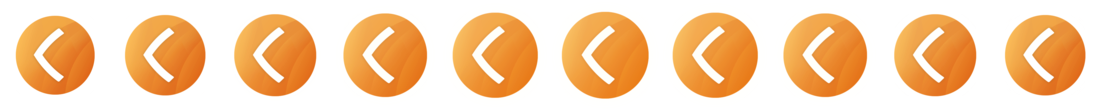
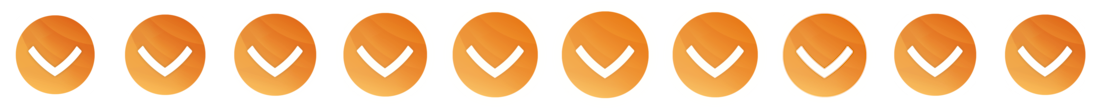
clubhouse: Change button orientation
Now the Clubhouse button (including the assets) have been rotated
to track the bottom side of the Clubhouse window.

https://phabricator.endlessm.com/T27162

diff --git a/js/ui/components/clubhouse.js b/js/ui/components/clubhouse.js
@@ -135,9 +135,9 @@ var ClubhouseWindowTracker = GObject.registerClass({
 
         this.emit('window-changed');
 
-        // Track Clubhouse's window actor to make the closeButton always show on top of
+        // Track Clubhouse's window actor to make the closeButton always show on bottom of
         // the Clubhouse's window edge
-        this._notifyHandler = actor.connect('notify::x', () => {
+        this._notifyHandler = actor.connect('notify::y', () => {
             this.emit('window-changed');
         });
 
@@ -161,10 +161,16 @@ var ClubhouseWindowTracker = GObject.registerClass({
         this._windowActor = null;
     }
 
-    getWindowX() {
+    getWindowY() {
         if (!Main.sessionMode.hasOverview || Main.overview.visible || this._windowActor == null)
             return -1;
-        return this._windowActor.x;
+        return this._windowActor.y;
+    }
+
+    getWindowHeight() {
+        if (!Main.sessionMode.hasOverview || Main.overview.visible || this._windowActor == null)
+            return -1;
+        return this._windowActor.height;
     }
 });
 
@@ -732,9 +738,9 @@ var ClubhouseButtonManager = GObject.registerClass({
         this._openButton.connect('clicked', () => { this.emit('open-clubhouse'); })
 
         let scaleFactor = St.ThemeContext.get_for_stage(global.stage).scale_factor;
-        this._openButton.set_clip(0, 0,
-                                  scaleFactor * CLUBHOUSE_BUTTON_SIZE / 2,
-                                  scaleFactor * CLUBHOUSE_BUTTON_SIZE);
+        this._openButton.set_clip(0, scaleFactor * CLUBHOUSE_BUTTON_SIZE / 2,
+                                  scaleFactor * CLUBHOUSE_BUTTON_SIZE,
+                                  scaleFactor * CLUBHOUSE_BUTTON_SIZE / 2);
 
         Main.layoutManager.addChrome(this._openButton);
 
@@ -757,11 +763,13 @@ var ClubhouseButtonManager = GObject.registerClass({
     }
 
     _updateCloseButtonPosition() {
-        this._closeButton.y = this._openButton.y;
+        let monitor = Main.layoutManager.primaryMonitor;
+        this._closeButton.x = monitor.x + Math.floor((monitor.width - this._closeButton.width) / 2);
 
-        let clubhouseWindowX = getClubhouseWindowTracker().getWindowX();
-        if (clubhouseWindowX != -1)
-            this._closeButton.x = clubhouseWindowX - this._closeButton.width / 2;
+        const clubhouseWindowY = getClubhouseWindowTracker().getWindowY();
+        const clubhouseWindowHeight = getClubhouseWindowTracker().getWindowHeight();
+        if (clubhouseWindowY != -1 && clubhouseWindowHeight != -1)
+            this._closeButton.y = clubhouseWindowY + clubhouseWindowHeight - this._closeButton.height / 2;
 
         _clipToMonitor(this._closeButton);
     }
@@ -773,14 +781,14 @@ var ClubhouseButtonManager = GObject.registerClass({
 
         let workarea = Main.layoutManager.getWorkAreaForMonitor(monitor.index);
 
-        this._openButton.x = monitor.x + monitor.width - this._openButton.width / 2;
-        this._openButton.y = workarea.y + Math.floor(workarea.height / 2.0 - this._openButton.height / 2.0);
+        this._openButton.x = monitor.x + Math.floor((monitor.width - this._openButton.width) / 2);
+        this._openButton.y = workarea.y - Math.floor(this._openButton.height / 2.0);
 
         this._updateCloseButtonPosition();
     }
 
     _updateVisibility() {
-        this._closeButton.visible = this._visible && getClubhouseWindowTracker().getWindowX() != -1;
+        this._closeButton.visible = this._visible && getClubhouseWindowTracker().getWindowY() != -1;
         this._openButton.visible = this._visible && Main.sessionMode.hasOverview &&
                                    !this._closeButton.visible;
         this._reposition();
